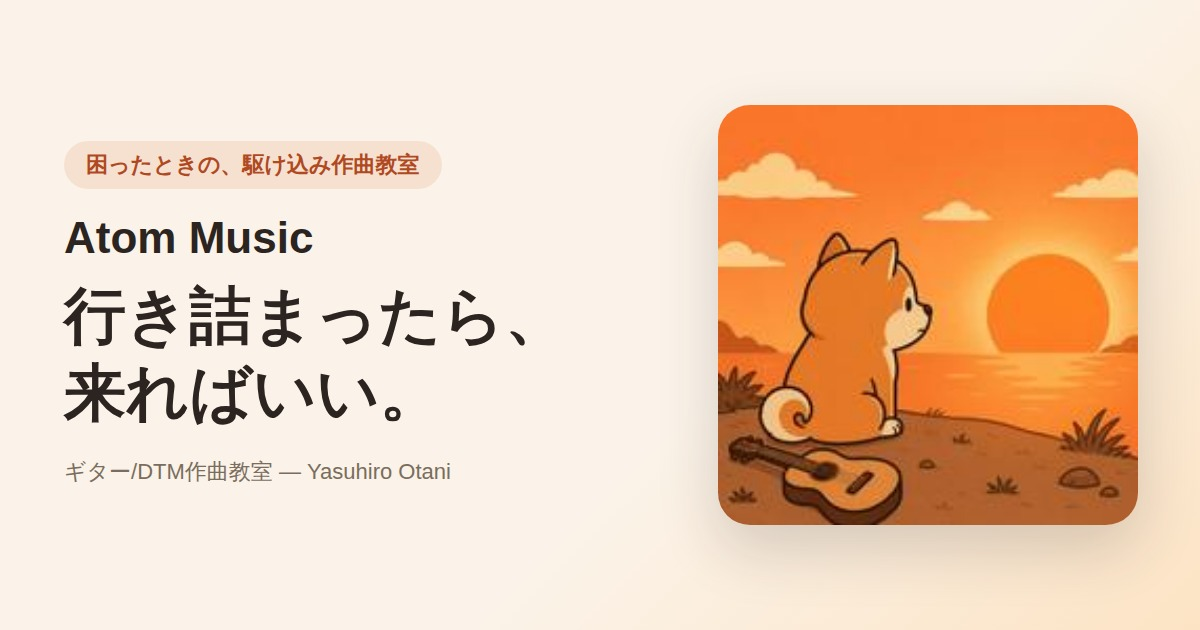
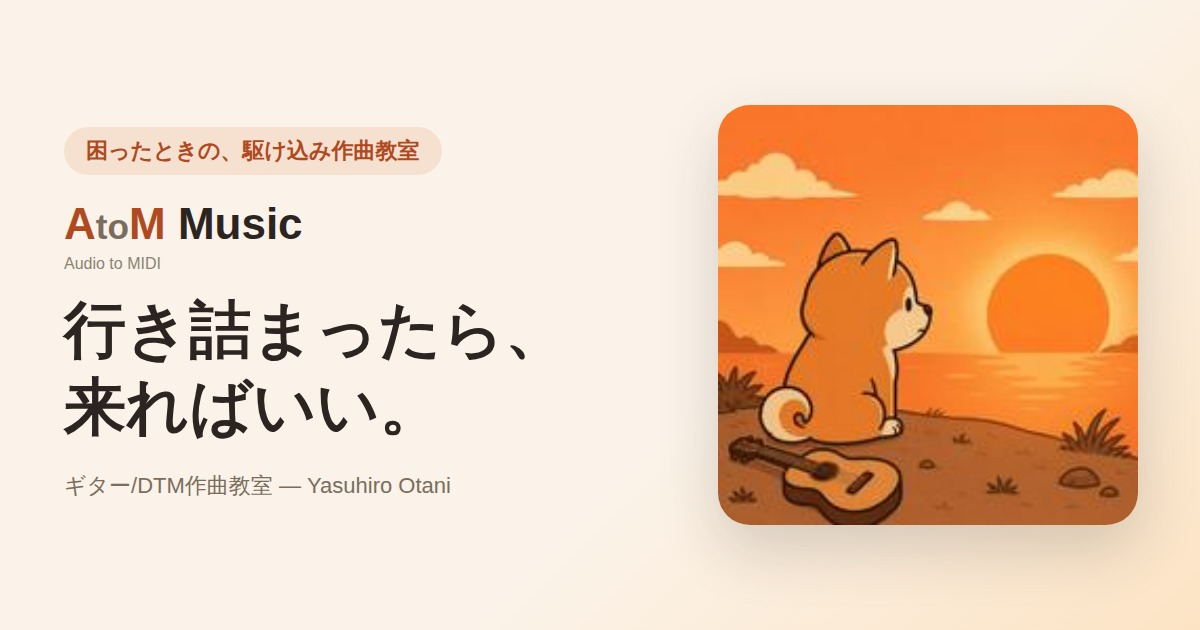
Finalize brand as AtoM Music (Audio to MIDI)
Stylizes the name as AtoM — reading naturally as "Atom" while the
capitalized A/M spell out "Audio to MIDI", the actual technical
process (stem analysis into MIDI data) the method section already
describes. Adds a one-line explainer under the Method section so the
wordplay isn't just a hidden easter egg. Updates title, meta/OG tags,
corner logo styling, and the OG card image accordingly.

Claude-Session: https://claude.ai/code/session_01QkwvkPgcskAKWeJFDPMNMa

diff --git a/lesson-site/index.html b/lesson-site/index.html
@@ -3,11 +3,11 @@
 <head>
 <meta charset="UTF-8">
 <meta name="viewport" content="width=device-width, initial-scale=1.0">
-<title>Atom Music — 行き詰まったら、来ればいい。(ギター/DTM作曲教室)</title>
-<meta name="description" content="独学で伸び悩んだ、受験が迫っている、相談できる相手がいない——本気で困っている人のための駆け込み作曲教室「Atom Music」。実測データにもとづく再現性の高いメソッドで、行き詰まりの先まで一緒に進みます。">
+<title>AtoM Music — 行き詰まったら、来ればいい。(ギター/DTM作曲教室)</title>
+<meta name="description" content="独学で伸び悩んだ、受験が迫っている、相談できる相手がいない——本気で困っている人のための駆け込み作曲教室「AtoM Music」。実測データにもとづく再現性の高いメソッドで、行き詰まりの先まで一緒に進みます。">
 <link rel="icon" type="image/svg+xml" href="favicon.svg">
 <meta property="og:type" content="website">
-<meta property="og:title" content="Atom Music — 行き詰まったら、来ればいい。">
+<meta property="og:title" content="AtoM Music — 行き詰まったら、来ればいい。">
 <meta property="og:description" content="独学で伸び悩んだ、受験が迫っている、相談できる相手がいない——本気で困っている人のための駆け込み作曲教室。">
 <meta property="og:url" content="https://lesson.yasuhiro-otani.com/">
 <meta property="og:image" content="https://lesson.yasuhiro-otani.com/images/og-lesson.jpg">
@@ -16,7 +16,7 @@
 </head>
 <body>
 
-<div class="corner-logo">Atom<span>♪</span>Music</div>
+<div class="corner-logo"><span class="brand-cap">A</span><span class="brand-mid">to</span><span class="brand-cap">M</span> Music</div>
 <button class="menu-trigger" aria-label="Menu">
   <span>MENU</span>
   <span class="bars"><span></span><span></span><span></span></span>
@@ -58,7 +58,7 @@
       </div>
     </div>
     <div class="hero-illustration">
-      <img src="images/mascot-sunset.jpg" alt="夕日を見つめ、途方に暮れているAtom Musicのマスコット犬">
+      <img src="images/mascot-sunset.jpg" alt="夕日を見つめ、途方に暮れているAtoM Musicのマスコット犬">
     </div>
   </div>
 </header>
@@ -90,6 +90,7 @@
     <p class="section-eyebrow">メソッド</p>
     <h2 class="section-title teal">なぜ、抜け出せるのか</h2>
     <p class="lead">「なんとなく良い感じ」を頼りにした作曲には、再現性がありません。このレッスンでは、実在するプロの楽曲をステム単位で解析し、構成・BPM・周波数帯域・レベル変化・パンニング・MIDI打ち込みまで数値として分解した上で、同じ構造を自分の手で組み立て直す方法を教えます。行き詰まりの原因を感覚ではなく手順として扱うので、次に同じ壁にぶつかっても、自分で抜け出せるようになります。</p>
+    <p class="lead" style="font-size:.78rem; margin-top:-16px;">校名の「AtoM」は<b style="color:var(--accent3);">A</b>udio <b style="color:var(--muted);">to</b> <b style="color:var(--accent3);">M</b>IDI——音源をMIDIデータへ変換して分析する、このメソッドの手順そのものから来ています。</p>
     <div class="card-grid">
       <div class="point-box">
         <strong>01 — 解析</strong>

diff --git a/lesson-site/css/style.css b/lesson-site/css/style.css
@@ -93,6 +93,8 @@ section { padding: 72px 0; }
 }
 
 .corner-logo span { color: var(--accent); }
+.corner-logo .brand-cap { color: var(--accent); font-weight: 900; }
+.corner-logo .brand-mid { color: var(--muted); font-size: .82em; }
 
 .menu-trigger {
   position: fixed;
